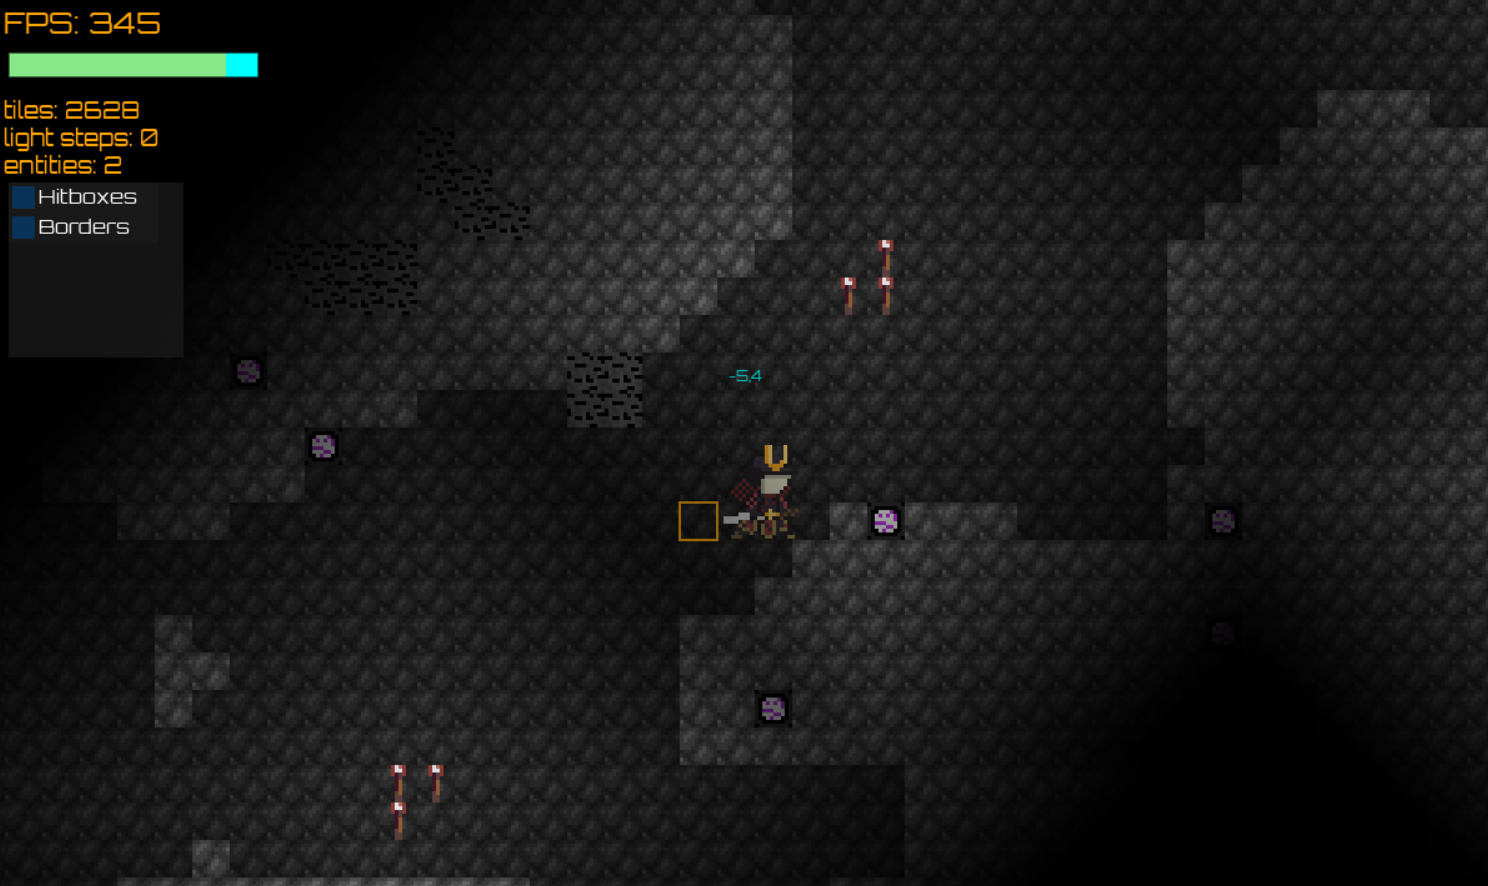
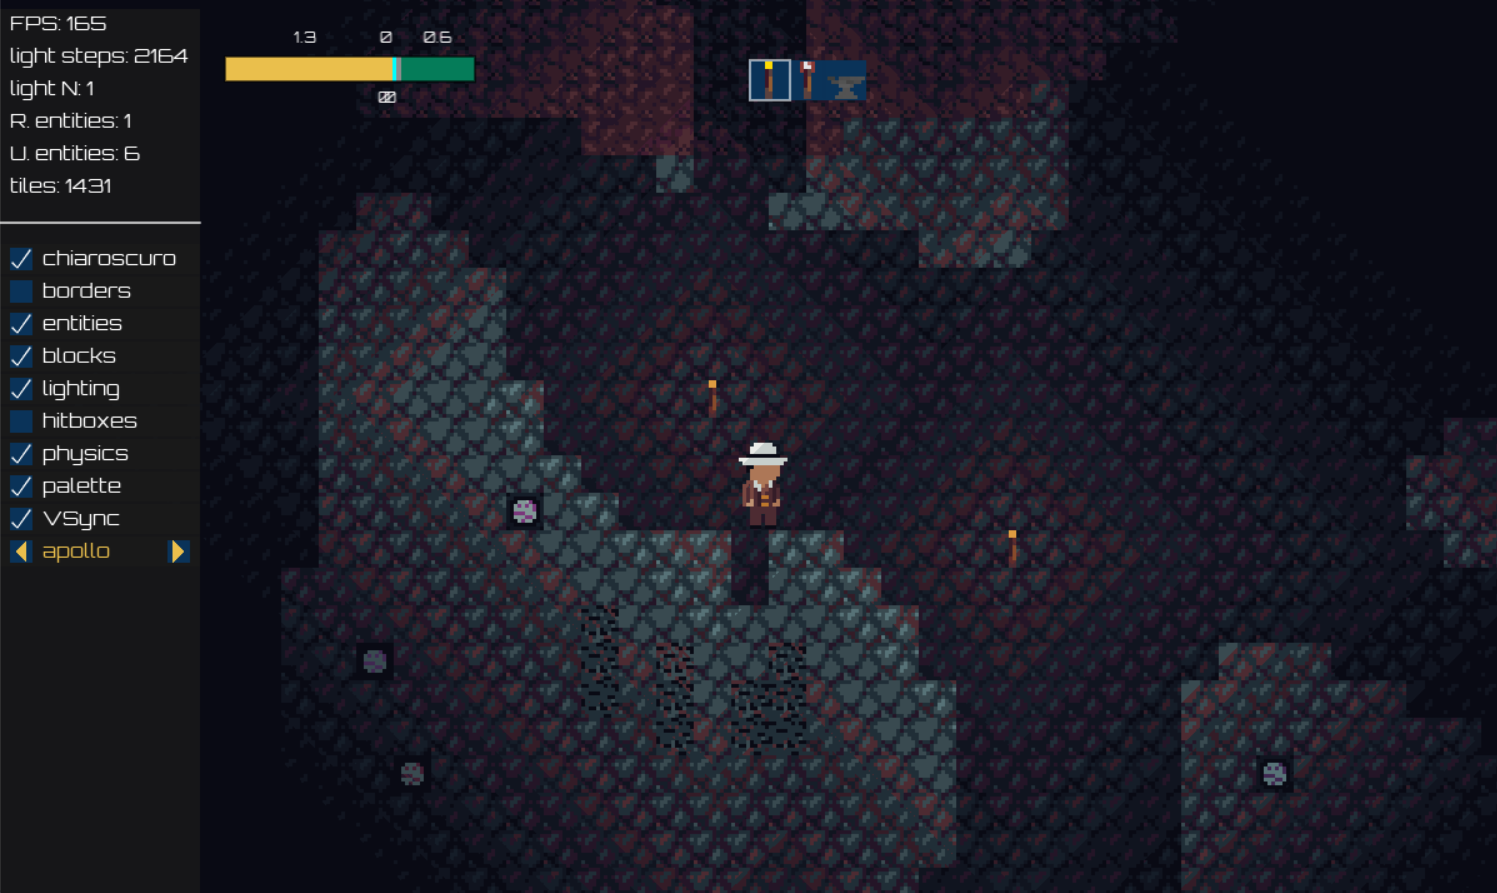
Readme

diff --git a/README.md b/README.md
@@ -4,11 +4,12 @@ is a game
 ## Technical info
 - Language: LuaJIT 5.1
 - Graphics library: [Love2D](https://love2d.org/)
-- Entities: proprietary ECS heavily inspired by [esper](https://github.com/benmoran56/esper) for Python (added chunk support)
+- Game engine: a proprietary ECS heavily inspired by [esper](https://github.com/benmoran56/esper) for Python (added chunk support)
 - World generation:
     - Resource management: chunking `N × N` areas (currently `16 × 16`)
     - Cave generation: 2D [simplex noise](https://en.wikipedia.org/wiki/Simplex_noise) / 2D [ridge](https://stackoverflow.com/questions/36796829/procedural-terrain-with-ridged-fractal-noise) noise
 - Lighting: iterative BFS every `N` frames. The lower the `N`, the smoother light updates feel, but the slower it is. An `N > 1` is also harder to profile. The lightmap is then converted to an `imageData` object, which is then converted to a GPU texture. This texture is mapped onto the main window as a fragment shader, which also takes care of smoothing.
+- Color grading: color quantization in the fragment shader using shortest distance from a `Nx1` pixel. This can be done _after_ drawing the lighting (`chiaroscuro`) or _after_.
 
 ## Preview
 <img src="previews/overworld.png" width="900" />
